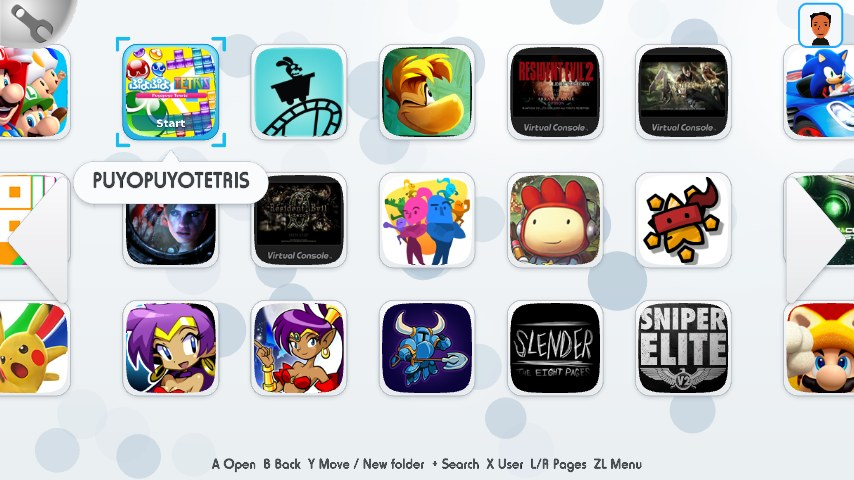
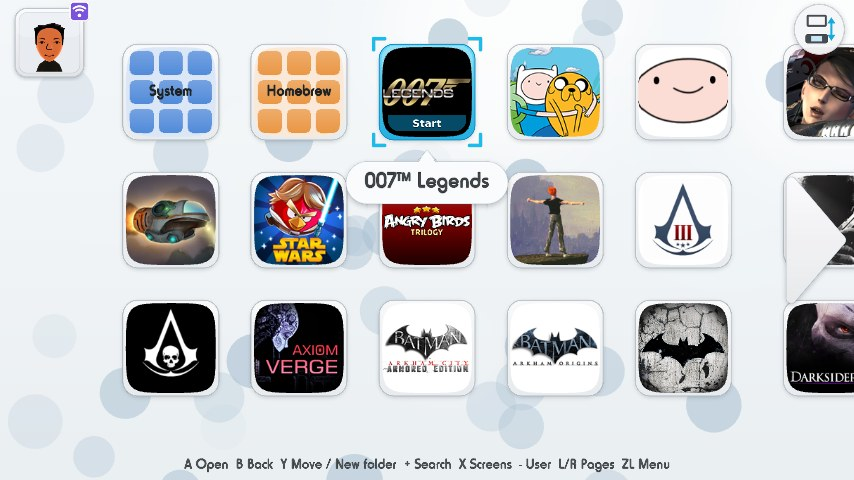
v0.3.1: release notes, README, screenshots
Claude-Session: https://claude.ai/code/session_01Efx84Ax4dgMWSjH1ymfLqE

diff --git a/release-notes.md b/release-notes.md
@@ -2,32 +2,39 @@
 Nothing is written to the NAND: deleting `men.rpx` from the SD card brings back the original Wii U Menu.
 
 ### Installation
-Extract the `launchiine-*.zip` of this release to the root of the SD card (or copy `men.rpx` to `sd:/wiiu/environments/aroma/men.rpx` and `launchiine_helper.wps` to `sd:/wiiu/environments/aroma/plugins/`) and start the console as usual.
+Extract `launchiine-v0.3.1.zip` to the root of the SD card (or copy `men.rpx` to `sd:/wiiu/environments/aroma/men.rpx` and `launchiine_helper.wps` to `sd:/wiiu/environments/aroma/plugins/`) and start the console as usual.
 
-### New in v0.3
+### New in v0.3.1
+- **Switch screens** (X or the new button top right), like the Wii U Menu: icon grid on the TV, game info on the GamePad – for playing with a Pro Controller or Wii Remote. Remembered across restarts, like the ZR choice for the TV.
+- The Mii moved to the top left corner in a glass tile, with a badge for accounts linked to an online network. The settings tab is gone (ZL opens the menu); - opens the user picker.
+- **TV view:** homebrew, system apps and games without a cover show their (rounded) icon right away; covers load almost instantly (kept in memory for the pages around the selection, uploaded without decoding); no more stutter from the description text; eShop games found by their short GameTDB id; English fills in missing translations; Virtual Console injects are looked up by name.
+- ZR (TV: game info / icon grid) actually works now.
+
+### Everything since Maschell's launchiine
 **Wii U Menu look** (all graphics are new drawings, no Nintendo files are included)
-- Light theme: bright background with soft bubbles, glass tiles behind the icons, cyan selection with corner brackets and a *Start* band.
-- Name bubble over the selected icon (below it on the top row).
-- Paging like the original: the neighbouring pages peek in at the screen edges, big white arrows, page dots at the top, eased scrolling.
-- Folders: grid icon with the folder name, the folder color tints the background inside, bottom bar with the name, a wrench (folder settings) and a back tab.
-- Dialogs in the Wii U Menu style: white panel, dark header, glossy buttons, *Back* button.
-- The TV is rendered at the console's resolution (1080p when set) instead of a stretched 720p picture.
-- **TV view:** cover, publisher, year, genre, players and official description of the selected game from GameTDB, cached on the SD card. ZR switches back to the icon grid.
+- Light theme, glass tiles, cyan selection with a *Start* band, name bubble over the selected icon.
+- Paging like the original: neighbouring pages peek in, big white arrows, page dots, eased scrolling.
+- Folders with a grid icon and their name, colored background inside, name bar, folder settings and back tab.
+- Dialogs with a white panel, dark header, glossy buttons and a *Back* button.
+- The TV is rendered at the console's resolution (1080p when set).
+- **TV view** with cover, publisher, year, genre, players and official description from [GameTDB](https://www.gametdb.com).
 
 **Features**
-- **User folders:** Y on a title → *New folder...*, move titles between folders, rename and delete folders; empty folders disappear.
-- **Folder colors:** *Change color* for every folder, the built-in System and Homebrew folders too.
-- **Accounts (experimental):** the current user's Mii in the top right corner, X or a tap opens the user picker; asks at boot when there is no default account. Switching between accounts has only been tested with a single account – please report how it works for you.
-- **Game update notice:** launchiine checks Nintendo's version list (like the Wii U Menu does) and marks titles with a newer update with an orange badge and *Update available*. It only tells; updating still happens through the original menu / System Settings.
-- **Icon cache:** icons are cached on the SD card, the menu shows all icons in a fraction of a second after the first start.
-- Touch: tap an icon to select it, tap the selected icon to open it.
+- Stability: the random freezes and crashes of the original are fixed.
+- Gamepad, touch, Pro Controller and Wii Remote controls; alphabetical order; search (+).
+- Fixed *System* and *Homebrew* folders plus your own folders (create, move, rename, delete, change color).
+- Homebrew from `sd:/wiiu/apps` (with Aroma's homebrew_on_menu plugin).
+- **Accounts (experimental):** user picker, asks at boot without a default account. Only tested with a single account – please report how it works for you.
+- **Game update notice:** titles with a newer update get an orange badge and *Update available* (only announced, not downloaded).
+- Names and icons cached on the SD card: the menu is complete in well under a second.
+- Opens on the last started title; names follow the console language.
 - **Original Wii U Menu:** ZL → *Original Wii U Menu* starts Nintendo's menu once; the included `launchiine_helper.wps` plugin brings launchiine back for the next start.
+- Works with the GamePad's Quick Start Menu (handled by Aroma).
 
 ### Known limitations
 - No splash screen sound, no menu music from the original menu.
-- No Wara Wara Plaza. Some games have no cover or description on GameTDB.
+- No Wara Wara Plaza. Some games have no cover or description on GameTDB; not every Virtual Console inject is found yet.
 - Updates are only announced, not downloaded.
-- Quick Start Menu and external storage handling rely on Aroma's AutobootModule.
 
 Tested on a Wii U with the latest system update and the latest Aroma (November 2026), also together with Pretendo Network / Inkay.
 

diff --git a/README.md b/README.md
@@ -1,4 +1,4 @@
-## Launchiine (community continuation, v0.3 beta)
+## Launchiine (community continuation, v0.3.1 beta)
 
 A Wii U Menu replacement for [Aroma](https://aroma.foryour.cafe/), based on [launchiine by Maschell](https://github.com/wiiu-env/launchiine).
 The original was published as an unfinished work in progress; this fork picks it up and makes it usable day to day.
@@ -23,6 +23,10 @@ The original was published as an unfinished work in progress; this fork picks it
 - **TV view:** the selected game's cover, publisher, year, genre, players and official description
   from [GameTDB](https://www.gametdb.com) (console language, English where there is no translation).
   Downloaded once and kept on the SD card. ZR switches the TV back to the icon grid.
+  Homebrew, system apps and games without a cover show their icon.
+- **Switch screens** (X or the button top right), like the Wii U Menu: the icon grid on the TV and the game info
+  on the GamePad, for playing with a Pro Controller or Wii Remote. The choice is remembered.
+- The user's Mii in the top left corner, with a badge for accounts linked to an online network.
 
 **Works like a day-to-day menu**
 - **Stability:** fixed the random freezes and crashes (threading in the icon loader, GPU commands sent from a second thread,
@@ -34,7 +38,7 @@ The original was published as an unfinished work in progress; this fork picks it
   (needs the [homebrew_on_menu](https://github.com/wiiu-env/homebrew_on_menu_plugin) plugin, included in Aroma).
 - **Search** (+ button): matches words in the short and the full name, ignores case, accents and punctuation,
   also finds titles inside folders.
-- **Accounts (experimental):** the current user's Mii in the corner, X opens the user picker, asks at boot without a default account.
+- **Accounts (experimental):** tap the Mii or press - to choose the user; asks at boot without a default account.
 - **Game update notice:** titles with a newer update on Nintendo's servers get an orange badge and *Update available*.
 - **Fast start:** names and icons are cached on the SD card; the menu is complete in well under a second.
 - The menu opens on the last started title (inside its folder if needed).
@@ -90,7 +94,8 @@ Everything lives in `sd:/wiiu/launchiine/` and can be deleted at any time:
 - The GamePad's Quick Start Menu and external storage handling rely on Aroma's [AutobootModule](https://github.com/wiiu-env/AutobootModule)
   (use a 2024 or newer Aroma, older versions had problems with the Quick Start Menu).
 - No Wara Wara Plaza; the TV shows the selected game's info instead.
-- Some games have no cover or description on GameTDB, especially eShop titles.
+- Some games have no cover or description on GameTDB, especially eShop titles. Virtual Console injects
+  are looked up by name in GameTDB's Wii / GameCube database, which does not find all of them yet.
 - No menu music or splash sound from the original menu.
 - Leaving System Settings or Wii titles reboots the system and Aroma has to load again; that takes a moment, like with the original menu.
 
